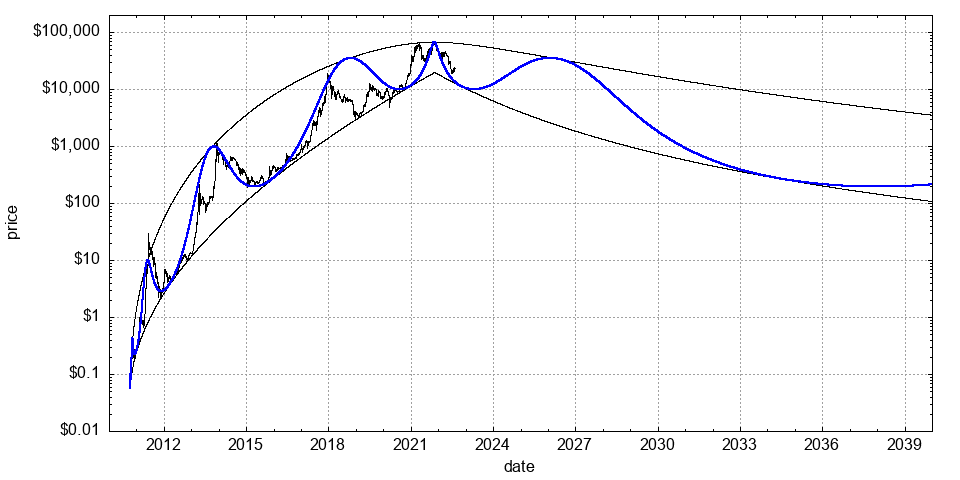
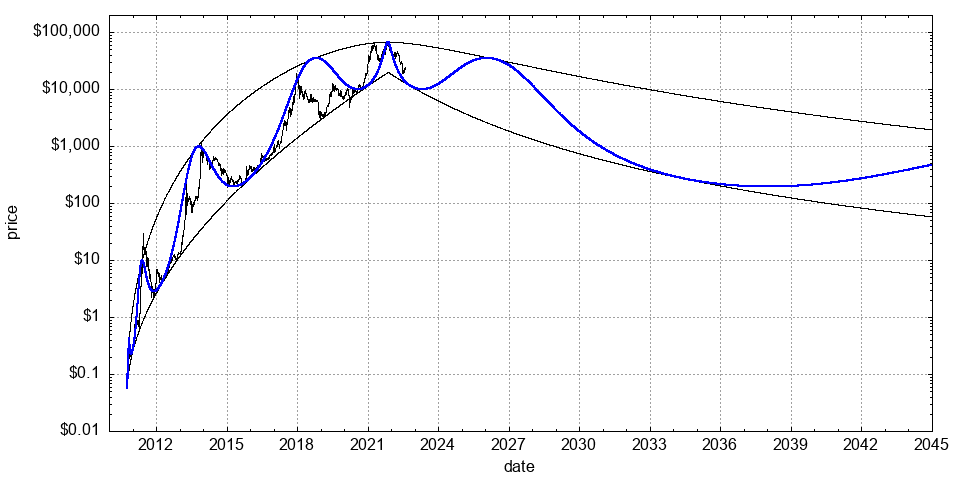
Zoom in on basic model after 2020 too

diff --git a/src/mkdata.py b/src/mkdata.py
@@ -62,7 +62,7 @@ for p in range(1, m.peak_cycle_p):
 # Model data
 
 def model_data(m):
-    end_date = m.base_d + timedelta(3*(m.peak_d - m.base_d).days)
+    end_date = m.base_d + timedelta(4*(m.peak_d - m.base_d).days)
     dates = (m.base_d + timedelta(n) for n in range((end_date - m.base_d).days))
 
     v = []
